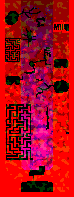
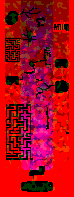
added doors. tweaked levels to accomodate doors.

diff --git a/main/modes/games/bigbug/worldGen_bigbug.c b/main/modes/games/bigbug/worldGen_bigbug.c
@@ -4,8 +4,8 @@
 
 #include "mode_bigbug.h"
 #include "tilemap_bigbug.h"
-#include "entityManager_bigbug.h"
-#include "entity_bigbug.h"
+// #include "entityManager_bigbug.h"
+// #include "entity_bigbug.h"
 #include "worldGen_bigbug.h"
 #include "random_bigbug.h"
 #include "typedef_bigbug.h"
@@ -13,7 +13,7 @@
 //==============================================================================
 // Functions
 //==============================================================================
-void bb_generateWorld(bb_entityManager_t* entityManager, bb_tilemap_t* tilemap)
+void bb_generateWorld(bb_tilemap_t* tilemap)
 {
     // There are 6 handcrafted levels that get chosen randomly.
     uint8_t level = bb_randomInt(0, 5);
@@ -24,7 +24,7 @@ void bb_generateWorld(bb_entityManager_t* entityManager, bb_tilemap_t* tilemap)
     loadWsgInplace(wsg_name, &levelWsg, true, bb_decodeSpace,
                    bb_hsd); // levelWsg only needed for this brief scope.
 
-    int8_t midgroundHealhValues[] = {1, 4, 10};
+    int8_t midgroundHealthValues[] = {1, 4, 10};
 
     // Set all the tiles
     for (int i = 0; i < TILE_FIELD_WIDTH; i++)
@@ -94,12 +94,25 @@ void bb_generateWorld(bb_entityManager_t* entityManager, bb_tilemap_t* tilemap)
                 }
             }
 
-            // green value used for midground tiles
-            if (((rgbCol >> 8) & 255) == 51)
+            // green value used for midground tiles and doors
+            switch ((rgbCol >> 8) & 255)
             {
-                tilemap->mgTiles[i][j].health = tilemap->fgTiles[i][j].health == 0
-                                                    ? midgroundHealhValues[bb_randomInt(0, 2)]
-                                                    : tilemap->fgTiles[i][j].health;
+                case 51:
+                {
+                    tilemap->mgTiles[i][j].health = tilemap->fgTiles[i][j].health == 0
+                                                        ? midgroundHealthValues[bb_randomInt(0, 2)]
+                                                        : tilemap->fgTiles[i][j].health;
+                    break;
+                }
+                case 102:
+                {
+                    tilemap->fgTiles[i][j].embed = DOOR_EMBED;
+                    break;
+                }
+                default:
+                {
+                    break;
+                }
             }
 
             // blue channel is also for enemy density where there are foreground tiles.

diff --git a/main/modes/games/bigbug/mode_bigbug.c b/main/modes/games/bigbug/mode_bigbug.c
@@ -176,7 +176,7 @@ static void bb_EnterMode(void)
     bigbug->gameData.camera.camera.pos.x = (bigbug->gameData.entityManager.viewEntity->pos.x >> DECIMAL_BITS) - 140;
     bigbug->gameData.camera.camera.pos.y = (bigbug->gameData.entityManager.viewEntity->pos.y >> DECIMAL_BITS) - 120;
 
-    bb_generateWorld(&(bigbug->gameData.entityManager), &(bigbug->gameData.tilemap));
+    bb_generateWorld(&(bigbug->gameData.tilemap));
 
     // Player
     //  bb_createEntity(&(bigbug->gameData.entityManager), NO_ANIMATION, true, GARBOTNIK_FLYING, 1,
@@ -280,7 +280,7 @@ static void bb_EnterModeSkipIntro(void)
 
     bigbug->gameData.entityManager.playerEntity = bigbug->gameData.entityManager.viewEntity;
 
-    bb_generateWorld(&(bigbug->gameData.entityManager), &(bigbug->gameData.tilemap));
+    bb_generateWorld(&(bigbug->gameData.tilemap));
 
     // Set the mode to game mode
     bigbug->gameData.screen = BIGBUG_GAME;
@@ -655,9 +655,9 @@ static void bb_DrawScene_Radar_Upgrade(void)
                 drawText(&bigbug->gameData.font, i == bigbug->gameData.radar.playerPingRadius ? c141 : c132,
                          "infinite range", 45, 160 + i * 30);
                 break;
-            case BIGBUG_WASHING_MACHINES:
+            case BIGBUG_FUEL:
                 drawText(&bigbug->gameData.font, i == bigbug->gameData.radar.playerPingRadius ? c141 : c132,
-                         "washing machine locations", 45, 160 + i * 30);
+                         "fuel locations", 45, 160 + i * 30);
                 drawText(&bigbug->gameData.font, c122, "not implemented", 45, 172 + i * 30);
                 break;
             case BIGBUG_ENEMIES:

diff --git a/main/modes/games/bigbug/entity_bigbug.c b/main/modes/games/bigbug/entity_bigbug.c
@@ -1644,6 +1644,32 @@ void bb_updateGrabbyHand(bb_entity_t* self)
     }
 }
 
+void bb_updateDoor(bb_entity_t* self)
+{
+    if (self->gameData->carFightState == 0) // no fight
+    {
+        self->currentAnimationFrame = 0;
+        if (self->collisions != NULL)
+        {
+            bb_clearCollisions(self, false);
+        }
+    }
+    else // fight
+    {
+        self->currentAnimationFrame = 1;
+
+        if (self->collisions == NULL)
+        {
+            self->collisions = heap_caps_calloc(1, sizeof(list_t), MALLOC_CAP_SPIRAM);
+            list_t* others   = heap_caps_calloc(1, sizeof(list_t), MALLOC_CAP_SPIRAM);
+            push(others, (void*)GARBOTNIK_FLYING);
+            bb_collision_t* collision = heap_caps_calloc(1, sizeof(bb_collision_t), MALLOC_CAP_SPIRAM);
+            *collision                = (bb_collision_t){others, bb_onCollisionHeavyFalling};
+            push(self->collisions, (void*)collision);
+        }
+    }
+}
+
 void bb_drawGarbotnikFlying(bb_entityManager_t* entityManager, rectangle_t* camera, bb_entity_t* self)
 {
     if (GARBOTNIK_DATA != self->dataType)
@@ -2162,6 +2188,7 @@ void bb_onCollisionCarIdle(bb_entity_t* self, bb_entity_t* other, bb_hitInfo_t* 
                         self->pos.x >> DECIMAL_BITS, self->pos.y >> DECIMAL_BITS, false, false)
         != NULL)
     {
+        self->gameData->carFightState = 20;
         bb_destroyEntity(self, false);
     }
 }

diff --git a/main/modes/games/bigbug/gameData_bigbug.h b/main/modes/games/bigbug/gameData_bigbug.h
@@ -44,7 +44,7 @@ enum bb_radarUpgrade_t
 {
     BIGBUG_GARBAGE_DENSITY,
     BIGBUG_INFINITE_RANGE,
-    BIGBUG_WASHING_MACHINES,
+    BIGBUG_FUEL,
     BIGBUG_ENEMIES,
     BIGBUG_ACTIVE_BOOSTER,
     BIGBUG_OLD_BOOSTERS,
@@ -59,7 +59,7 @@ struct bb_radarScreenData_t
     uint8_t upgrades;         // the radar upgrade bools are bitpacked into this
                               // 0b1       garbage density  1 << 0
                               // 0b10      infinite range   1 << 1
-                              // 0b100     washing machines 1 << 2
+                              // 0b100     fuel             1 << 2
                               // 0b1000    enemies          1 << 3
                               // 0b10000   active booster   1 << 4
                               // 0b100000  old boosters     1 << 5
@@ -119,6 +119,8 @@ struct bb_gameData_t
     enum bb_screen_t screen; ///< The screen being displayed
 
     struct bb_radarScreenData_t radar;
+
+    uint8_t carFightState; ///< 0 means no active car fight, greater than 0 means number of kills remaining
 };
 
 //==============================================================================

diff --git a/main/modes/games/bigbug/entityManager_bigbug.c b/main/modes/games/bigbug/entityManager_bigbug.c
@@ -171,6 +171,10 @@ void bb_loadSprites(bb_entityManager_t* entityManager)
     bb_sprite_t* grabSprite = bb_loadSprite("grab", 3, 1, &entityManager->sprites[BB_GRABBY_HAND]);
     grabSprite->originX     = 15;
     grabSprite->originY     = -26;
+
+    bb_sprite_t* doorSprite = bb_loadSprite("door", 2, 1, &entityManager->sprites[BB_DOOR]);
+    doorSprite->originX     = 16;
+    doorSprite->originY     = 48;
 }
 
 void bb_updateEntities(bb_entityManager_t* entityManager, bb_camera_t* camera)
@@ -996,6 +1000,14 @@ bb_entity_t* bb_createEntity(bb_entityManager_t* entityManager, bb_animationType
 
             entity->updateFunction = &bb_updateRadarPing;
             entity->drawFunction   = &bb_drawRadarPing;
+            break;
+        }
+        case BB_DOOR:
+        {
+            entity->halfWidth      = 12 << DECIMAL_BITS;
+            entity->halfHeight     = 48 << DECIMAL_BITS;
+            entity->cacheable      = true;
+            entity->updateFunction = &bb_updateDoor;
             break;
         }
         default: // FLAME_ANIM and others need nothing set

diff --git a/main/modes/games/bigbug/tilemap_bigbug.c b/main/modes/games/bigbug/tilemap_bigbug.c
@@ -270,6 +270,16 @@ void bb_drawTileMap(bb_tilemap_t* tilemap, rectangle_t* camera, vec_t* garbotnik
                             }
                             break;
                         }
+                        case DOOR_EMBED:
+                        {
+                            if (bb_createEntity(entityManager, NO_ANIMATION, true, BB_DOOR, 1,
+                                                i * TILE_SIZE + HALF_TILE, j * TILE_SIZE + HALF_TILE, false, false)
+                                != NULL)
+                            {
+                                tilemap->fgTiles[i][j].embed = NOTHING_EMBED;
+                            }
+                            break;
+                        }
                         default:
                         {
                             break;

diff --git a/main/modes/games/bigbug/typedef_bigbug.h b/main/modes/games/bigbug/typedef_bigbug.h
@@ -53,6 +53,7 @@ typedef enum
     BB_SKELETON,        // Some dino bones embedded in garbage. Drops fuel.
     BB_FUEL,            // A zero-g glob of relish or crude dinosaur juice.
     BB_GRABBY_HAND,     // A hand in the booster that grabs bugs.
+    BB_DOOR,
 
     // These things do not have sprites in the sprites array. But we need the enum for the sake of the entity.
     // Some may have wsgs, but they cleverly load and unload their own WSGs.
@@ -72,7 +73,8 @@ typedef enum
     EGG_EMBED,
     WASHING_MACHINE_EMBED,
     CAR_EMBED,
-    SKELETON_EMBED
+    SKELETON_EMBED,
+    DOOR_EMBED,
 } bb_embeddable_t;
 
 typedef enum

diff --git a/main/modes/games/bigbug/worldGen_bigbug.h b/main/modes/games/bigbug/worldGen_bigbug.h
@@ -4,10 +4,11 @@
 // Includes
 //==============================================================================
 #include "swadge2024.h"
+#include "gameData_bigbug.h"
 
 //==============================================================================
 // Prototypes
 //==============================================================================
-void bb_generateWorld(bb_entityManager_t* entityManager, bb_tilemap_t* tilemap);
+void bb_generateWorld(bb_tilemap_t* tilemap);
 
 #endif

diff --git a/main/modes/games/bigbug/entity_bigbug.h b/main/modes/games/bigbug/entity_bigbug.h
@@ -325,6 +325,7 @@ void bb_updateAttachmentArm(bb_entity_t* self);
 void bb_updateGameOver(bb_entity_t* self);
 void bb_updateRadarPing(bb_entity_t* self);
 void bb_updateGrabbyHand(bb_entity_t* self);
+void bb_updateDoor(bb_entity_t* self);
 
 void bb_drawGarbotnikFlying(bb_entityManager_t* entityManager, rectangle_t* camera, bb_entity_t* self);
 void bb_drawHarpoon(bb_entityManager_t* entityManager, rectangle_t* camera, bb_entity_t* self);

diff --git a/main/modes/games/bigbug/entityManager_bigbug.h b/main/modes/games/bigbug/entityManager_bigbug.h
@@ -17,7 +17,7 @@
 // Constants
 //==============================================================================
 #define MAX_ENTITIES 200
-#define NUM_SPRITES  23 // The number of bb_sprite_t last accounted for grabby hand
+#define NUM_SPRITES  24 // The number of bb_sprite_t last accounted for door
 
 //==============================================================================
 // Structs
